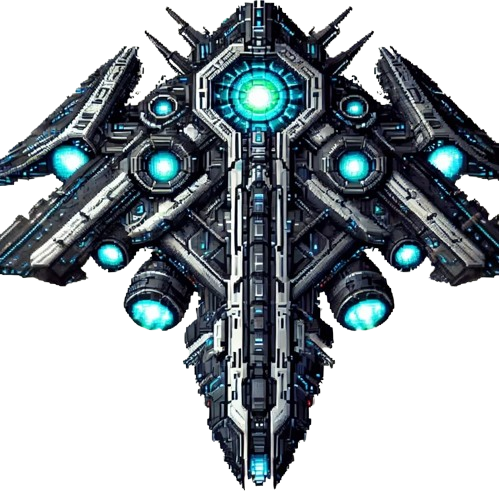
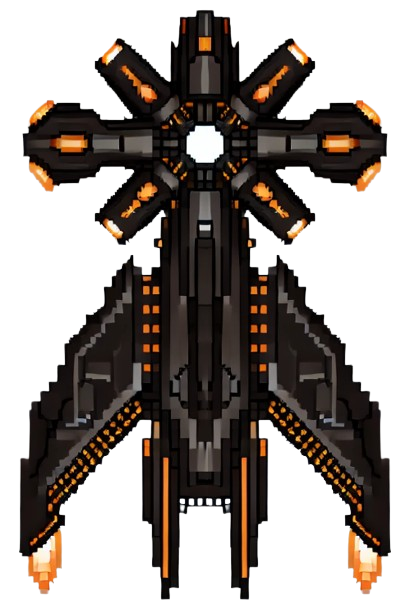
boss4

diff --git a/M_title_stage_images/bosses/Stage_4_Boss.py b/M_title_stage_images/bosses/Stage_4_Boss.py
@@ -19,9 +19,15 @@ def load_image(*path_parts, size=None):
 class Stage4Boss:
     def __init__(self):
         # 이미지 로드
-        self.boss_image = load_image("bosses", "boss_stage4.png", size=(120, 120))
-        self.boss_attack_image = load_image("boss_skilles", "boss_stage4_a.png", size=(40, 40))
+        self.boss_image = load_image("bosses", "boss_stage4.png", size=(240, 240))
+        self.boss_attack_images = {
+            "down": load_image("boss_skilles", "boss_stage4_a.png", size=(40, 40)),
+            "up": load_image("boss_skilles", "boss_stage4_b.png", size=(40, 40)),
+            "right": load_image("boss_skilles", "boss_stage4_c.png", size=(40, 40)),
+            "left": load_image("boss_skilles", "boss_stage4_d.png", size=(40, 40))
+        }
         self.gem_image = load_image("items", "mob_Jewelry_4.png", size=(40, 40))
+
         # 보스 속성 초기화
         self.boss_appear_time = 10  # 보스 등장 시간 (초)
         self.max_boss_hp = 10  # 보스의 최대 체력
@@ -53,62 +59,9 @@ class Stage4Boss:
             self.boss_appeared = True  # 보스가 등장했음을 표시
 
     def move(self):
-        # 이동 후 위치 제한 함수 추가
-        def limit_position():
-            self.boss_pos[0] = max(0, min(self.boss_pos[0], 1280 - 240))
-            self.boss_pos[1] = max(0, min(self.boss_pos[1], 720 - 240))
-
-        current_time = pygame.time.get_ticks()
-
-        if self.boss_move_phase == 1:
-            # 1단계: 보스가 화면 상단에서 등장 후 1초 대기
-            if not hasattr(self, 'phase_start_time'):
-                self.phase_start_time = current_time  # 현재 시간을 저장
-            elif current_time - self.phase_start_time >= 1000:  # 1초 대기
-                self.boss_move_phase = 2
-        elif self.boss_move_phase == 2:
-            # 2단계: 화면 상단에서 좌우로만 이동
-            self.boss_pos[0] += self.boss_speed * self.boss_direction_x
-            if self.boss_pos[0] <= 0 or self.boss_pos[0] >= 1280 - 240:
-                self.boss_direction_x *= -1  # 방향 전환
-            # 보스의 Y 위치를 상단으로 고정
-            self.boss_pos[1] = 0
-
-        # 위치 제한 적용
-        limit_position()
 
     def attack(self):
-        current_time = pygame.time.get_ticks()
-        if current_time - self.boss_last_attack_time > self.boss_attack_cooldown:
-            self.boss_last_attack_time = current_time
-            attack_angles = []
-
-            # 보스의 체력에 따른 공격 각도 설정
-            if self.boss_hp > self.max_boss_hp * 0.75:
-                # 체력 > 75%: 아래쪽으로만 공격 (에너지 볼 1개)
-                attack_angles = [90]
-            elif self.boss_hp > self.max_boss_hp * 0.5:
-                # 체력 > 50%: 아래쪽 + 좌우 5도 공격 (에너지 볼 3개)
-                attack_angles = [85, 90, 95]
-            elif self.boss_hp > self.max_boss_hp * 0.25:
-                # 체력 > 25%: 아래쪽 + 좌우 5도, 10도 공격 (에너지 볼 5개)
-                attack_angles = [80, 85, 90, 95, 100]
-            else:
-                # 그 이하: 기존 공격 + 좌우 15도 공격 추가 (에너지 볼 7개)
-                attack_angles = [75, 80, 85, 90, 95, 100, 105]
-
-            attack_start_pos = [self.boss_pos[0] + 120, self.boss_pos[1] + 240]  # 보스 아래 중앙 위치
-
-            # 각도에 따른 에너지 볼 생성
-            for angle in attack_angles:
-                radian = math.radians(angle)
-                dx = math.cos(radian) * 10  # 속도 조절
-                dy = math.sin(radian) * 10
-                self.boss_attacks.append({
-                    'pos': [attack_start_pos[0], attack_start_pos[1]],
-                    'dir': [dx, dy],
-                    'angle': angle
-                })
+        
 
     def update_attacks(self, player_pos):
         new_boss_attacks = []
